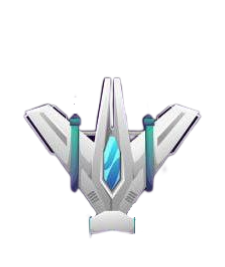
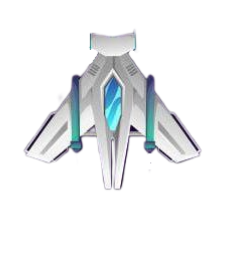
Fix enemies behavior

Changed region(s): [[0.0933, 0.1199, 0.9022, 0.8989]]

diff --git a/core/src/com/mygdx/game/objects/EnemyObject.java b/core/src/com/mygdx/game/objects/EnemyObject.java
@@ -72,13 +72,22 @@ public class EnemyObject extends GameObject{
         float playerAngle = getAngleOfPlayer(playerX, playerY);
         float playerDistance = getPlayerDistance(playerX, playerY);
         if (Math.abs(playerAngle) < ENEMY_CHECK_ANGLE && playerDistance < ENEMY_CHECK_DISTANCE) {
-            if (!hasAim || rd.nextInt(100) < ENEMY_CHANCE_CHANGE_AIM) {
-                aim = playerAngle + rd.nextInt(ENEMY_SHOOT_ANGLE) * 2 - ENEMY_CHANCE_CHANGE_AIM;
+            if (!hasAim /*|| rd.nextInt(100) < ENEMY_CHANCE_CHANGE_AIM*/) {
+                aim = -playerAngle - rd.nextInt(ENEMY_SHOOT_ANGLE) * 2 + ENEMY_CHANCE_CHANGE_AIM;
             }
             if (!hasAim) hasAim = true;
-            float da = (aim > 0 ? 1 : -1) * ENEMY_TO_PLAYER_ROTATION_SPEED;
-            aim -= da;
+            float da = Math.min(ENEMY_TO_PLAYER_ROTATION_SPEED, Math.abs(aim));
+            if (aim < 0) da = -da;
             sprite.setRotation(sprite.getRotation() + da);
+            aim -= da;
+            /*
+            if (Math.abs(aim) <= ENEMY_TO_PLAYER_ROTATION_SPEED) sprite.setRotation(sprite.getRotation() + aim);
+            else {
+                float da = (aim > 0 ? 1 : -1) * ENEMY_TO_PLAYER_ROTATION_SPEED;
+                aim -= da;
+                sprite.setRotation(sprite.getRotation() + da);
+            }
+             */
         } else {
             sprite.setRotation(sprite.getRotation() + ENEMY_USUAL_ROTATION_SPEED);
             hasAim = false;

diff --git a/core/src/com/mygdx/game/GameSettings.java b/core/src/com/mygdx/game/GameSettings.java
@@ -13,7 +13,7 @@ public class GameSettings {
 
     //Spawn settings
     public static final int SPAWN_COOL_DOWN = 2000;
-    public static final int CHANCE_CORE_SPAWN = 25; // в процентах // 25
+    public static final int CHANCE_CORE_SPAWN = 1; // в процентах // 25
 
     // Object Setting
   
@@ -42,10 +42,10 @@ public class GameSettings {
 
     //Enemy behaviour settings
     public static final int ENEMY_CHECK_DISTANCE = 1200;
-    public static final int ENEMY_CHECK_ANGLE = 60;
+    public static final int ENEMY_CHECK_ANGLE = 90;
     public static final int ENEMY_SHOOT_DISTANCE = 400;
-    public static final int ENEMY_SHOOT_ANGLE = 5;
+    public static final int ENEMY_SHOOT_ANGLE = 4;
     public static final float ENEMY_USUAL_ROTATION_SPEED = 1f;
-    public static final float ENEMY_TO_PLAYER_ROTATION_SPEED = 2f;
-    public static final int ENEMY_CHANCE_CHANGE_AIM = 5;
+    public static final float ENEMY_TO_PLAYER_ROTATION_SPEED = 10f;
+    public static final int ENEMY_CHANCE_CHANGE_AIM = 10; // 5
 }

diff --git a/core/src/com/mygdx/game/screens/SpaceGameScreen.java b/core/src/com/mygdx/game/screens/SpaceGameScreen.java
@@ -94,10 +94,8 @@ public class SpaceGameScreen extends GameScreen {
 
     @Override
     public void show() {
-        // Генерация врагов и ядер (просто, чтобы было видно)
-        //generateCore();
-        //generateEnemy();
         super.show();
+        enemyArray.add(new EnemyObject(100, 100, ENEMY_WIDTH, ENEMY_HEIGHT, myGdxGame.world, ENEMY_SHIP_IMG_PATH));
     }
 
     @Override
